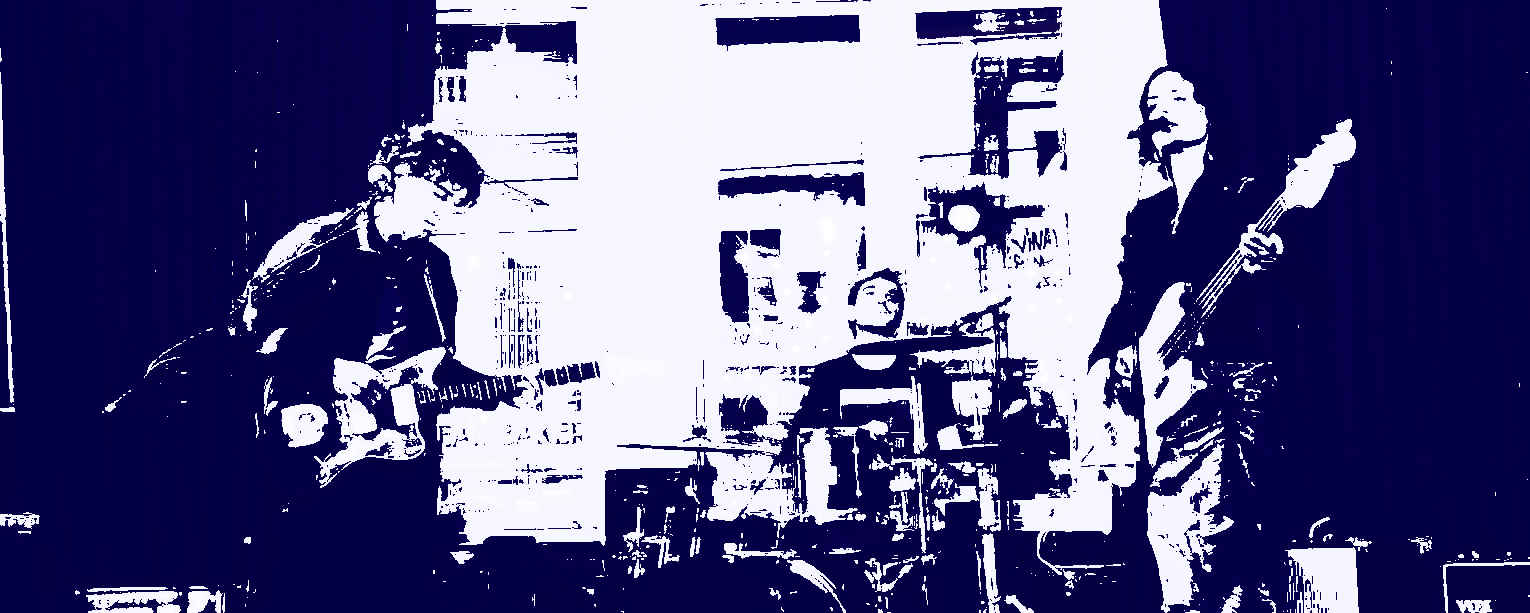
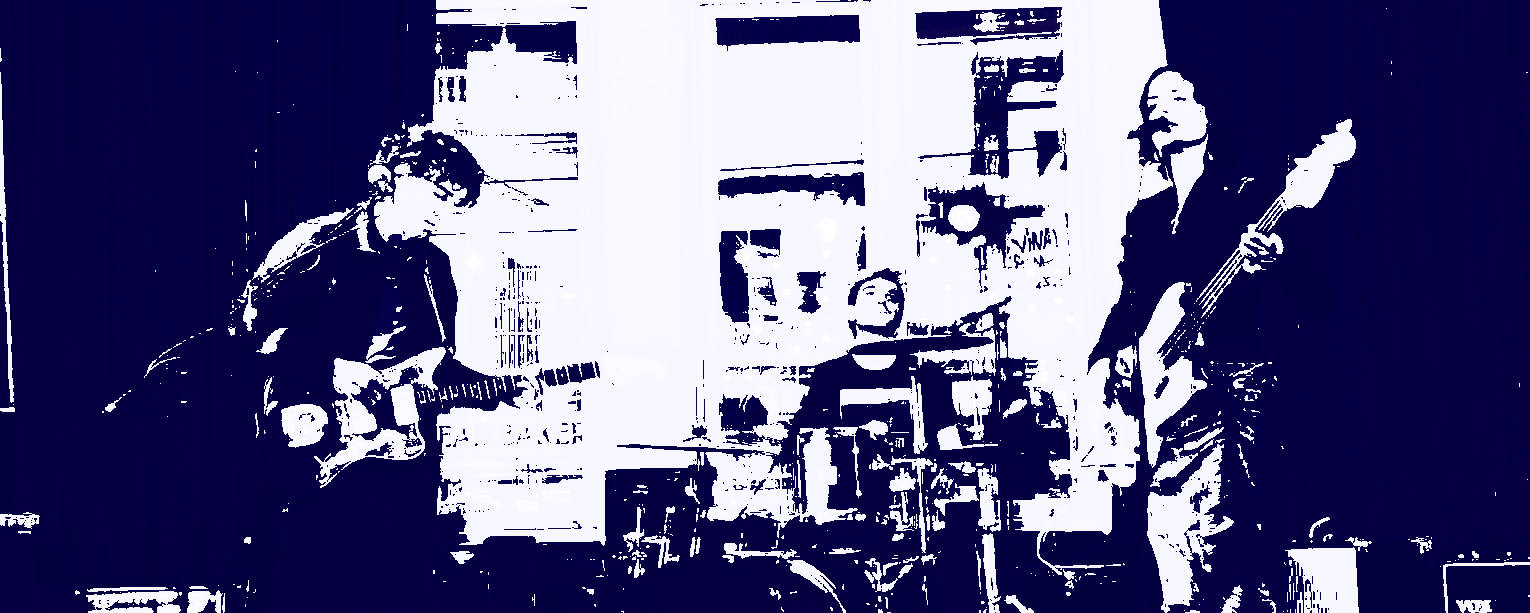
a

diff --git a/secretblog.html b/secretblog.html
@@ -71,8 +71,8 @@
                         <p>31/05/2024</p>
                         <!--<iframe width="700" height="393.75" src="docs/assetts/videos/240531_pennyblack_pressplay2.mp4" title="pennyblack_pressplay" frameborder="0" allow="accelerometer; clipboard-write; encrypted-media; gyroscope; picture-in-picture; web-share; allowfullscreen" max-width="100%" min-width="auto"></iframe>
                         <p>Here is a snippet of us--> Playing at the PennyBlack with <a href="https://www.instagram.com/sorrycommadave/">Sorry, Dave</a> and <a href="https://www.instagram.com/ourband_san/">SAN</a>. A very kind man said the show was urethral. <br>
-                            <img src="./docs/assetts/images/purrersjapaneecartoon.jpeg" alt="actually edited this one night" width="550px"; height="auto"; style="max-width: 100%";>
-                        Japanese anime-ized pic courtesy of A.</p>
+                            <img src="./docs/assetts/images/purrersjapaneecartoon.jpeg" alt="actually edited this one night" width="600px"; height="auto"; style="max-width: 100%";><br>
+                        Anime-ized pic courtesy of A.</p>
                         <p>D</p>
 
                         <br><br><br><br><br>
